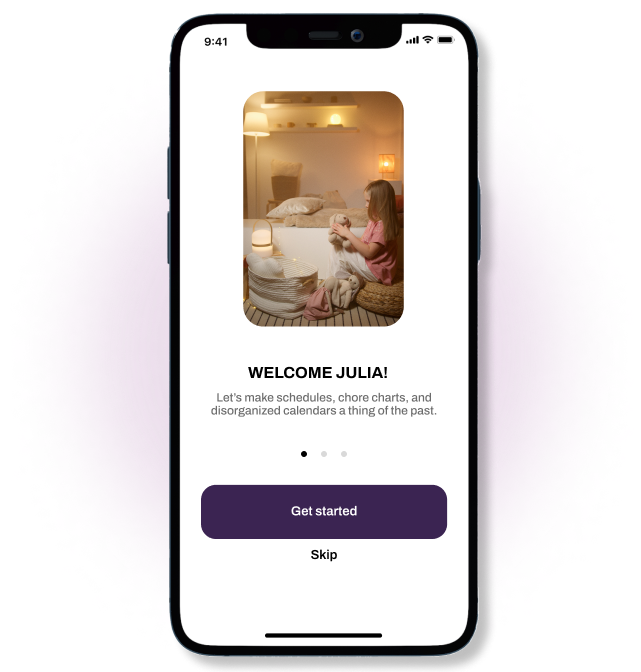
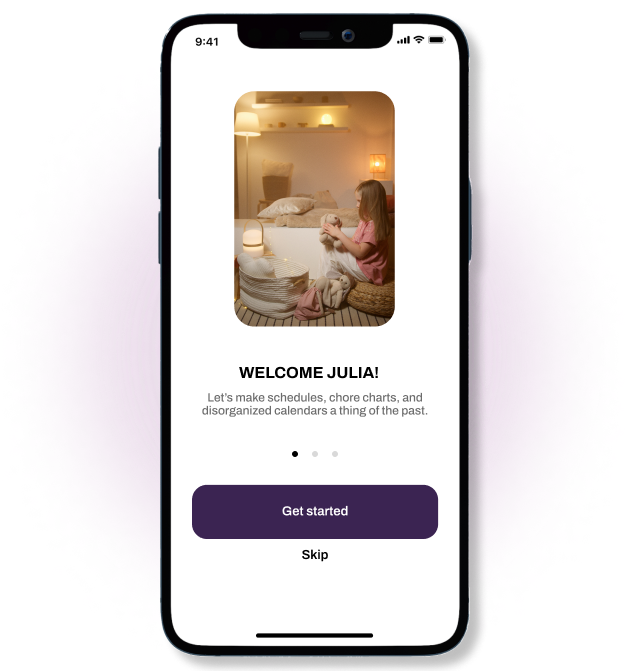
responsive appfeatures

diff --git a/style.css b/style.css
@@ -689,3 +689,141 @@ section#app-features div.features-content p{
     text-align: left;
     padding-bottom: 38px;
 }
+
+
+
+@media (min-width: 1200px) and (max-width:1610px){
+    section#app-features div.features-content h1{
+        font-size: 55px;
+        padding-bottom: 55px;
+    }
+    section#app-features div.features-content h3{
+        font-size: 18px;
+    }
+    section#app-features div.features-content p{
+        font-size: 16px;
+        line-height: 30px;
+    }
+}
+
+@media all and (min-width: 920px) and (max-width:1199px){
+    section#app-features{
+        padding-top: 50px;
+        padding-bottom: 50px;
+        height: 100vh;
+    }
+    section#app-features div.features-content{
+        max-width: 641px;
+        padding-right: 60px;
+    }
+    section#app-features div.holder img{
+        width: 100%;
+        max-width: 500px;
+        height: auto;
+    }
+    section#app-features div.features-content h1{
+        font-size: 50px;
+        padding-bottom: 35px;
+    }
+    section#app-features div.features-content h3{
+        font-size: 18px;
+        line-height: 19px;
+        padding-bottom: 23px;
+    }
+    section#app-features div.features-content p{
+        font-size: 16px;
+        line-height: 30px;
+        padding-bottom: 35px;
+    }
+    section#app-features div.features-content img{
+        width: 100%;
+        max-width: 300px;
+        height: auto;
+    }
+}
+
+@media all and (min-width: 480px) and (max-width: 919px) {
+    section#app-features{
+        height: auto;
+        padding-top: 50px;
+        padding-bottom: 50px;
+    }
+    section#app-features div.holder img{
+        width: 100%;
+        max-width: 400px;
+        height: auto;
+    }
+    section#app-features div.holder{
+        flex-direction: column;
+        justify-content: center;
+        padding-left: 40px;
+        padding-right: 40px;
+    }
+    
+    section#app-features div.features-content{
+        padding-right: 30px;
+    }
+    section#app-features div.features-content h1{
+        font-size: 30px;
+        padding-bottom: 30px;
+        padding-top: 30px;
+    }
+    section#app-features div.features-content h3{
+        font-size: 18px;
+        line-height: 22px;
+        padding-bottom: 26px;
+    }
+    section#app-features div.features-content p{
+        font-size: 16px;
+        line-height: 30px;
+        padding-bottom: 35px;
+    }
+    section#app-features div.features-content img{
+        width: 100%;
+        max-width: 250px;
+        height: auto;
+    }
+}
+
+@media screen and (max-width: 480px){
+    section#app-features{
+        height: auto;
+        padding-top: 50px;
+        padding-bottom: 50px;
+    }
+    section#app-features div.holder img{
+        width: 100%;
+        max-width: 400px;
+        height: auto;
+    }
+    section#app-features div.holder{
+        flex-direction: column;
+        justify-content: center;
+        padding-left: 40px;
+        padding-right: 40px;
+    }
+    
+    section#app-features div.features-content{
+        padding-right: 30px;
+    }
+    section#app-features div.features-content h1{
+        font-size: 30px;
+        padding-bottom: 30px;
+        padding-top: 30px;
+    }
+    section#app-features div.features-content h3{
+        font-size: 18px;
+        line-height: 22px;
+        padding-bottom: 26px;
+    }
+    section#app-features div.features-content p{
+        font-size: 16px;
+        line-height: 30px;
+        padding-bottom: 35px;
+    }
+    section#app-features div.features-content img{
+        width: 100%;
+        max-width: 250px;
+        height: auto;
+    }
+}

diff --git a/index.html b/index.html
@@ -65,6 +65,7 @@
     <section id="app-features">
         <div class="holder">
             <img src="img/phone.png" alt="">
+            
             <div class="features-content">
                 <h1>App Features</h1>
                 <h3>Visual timer</h3>
